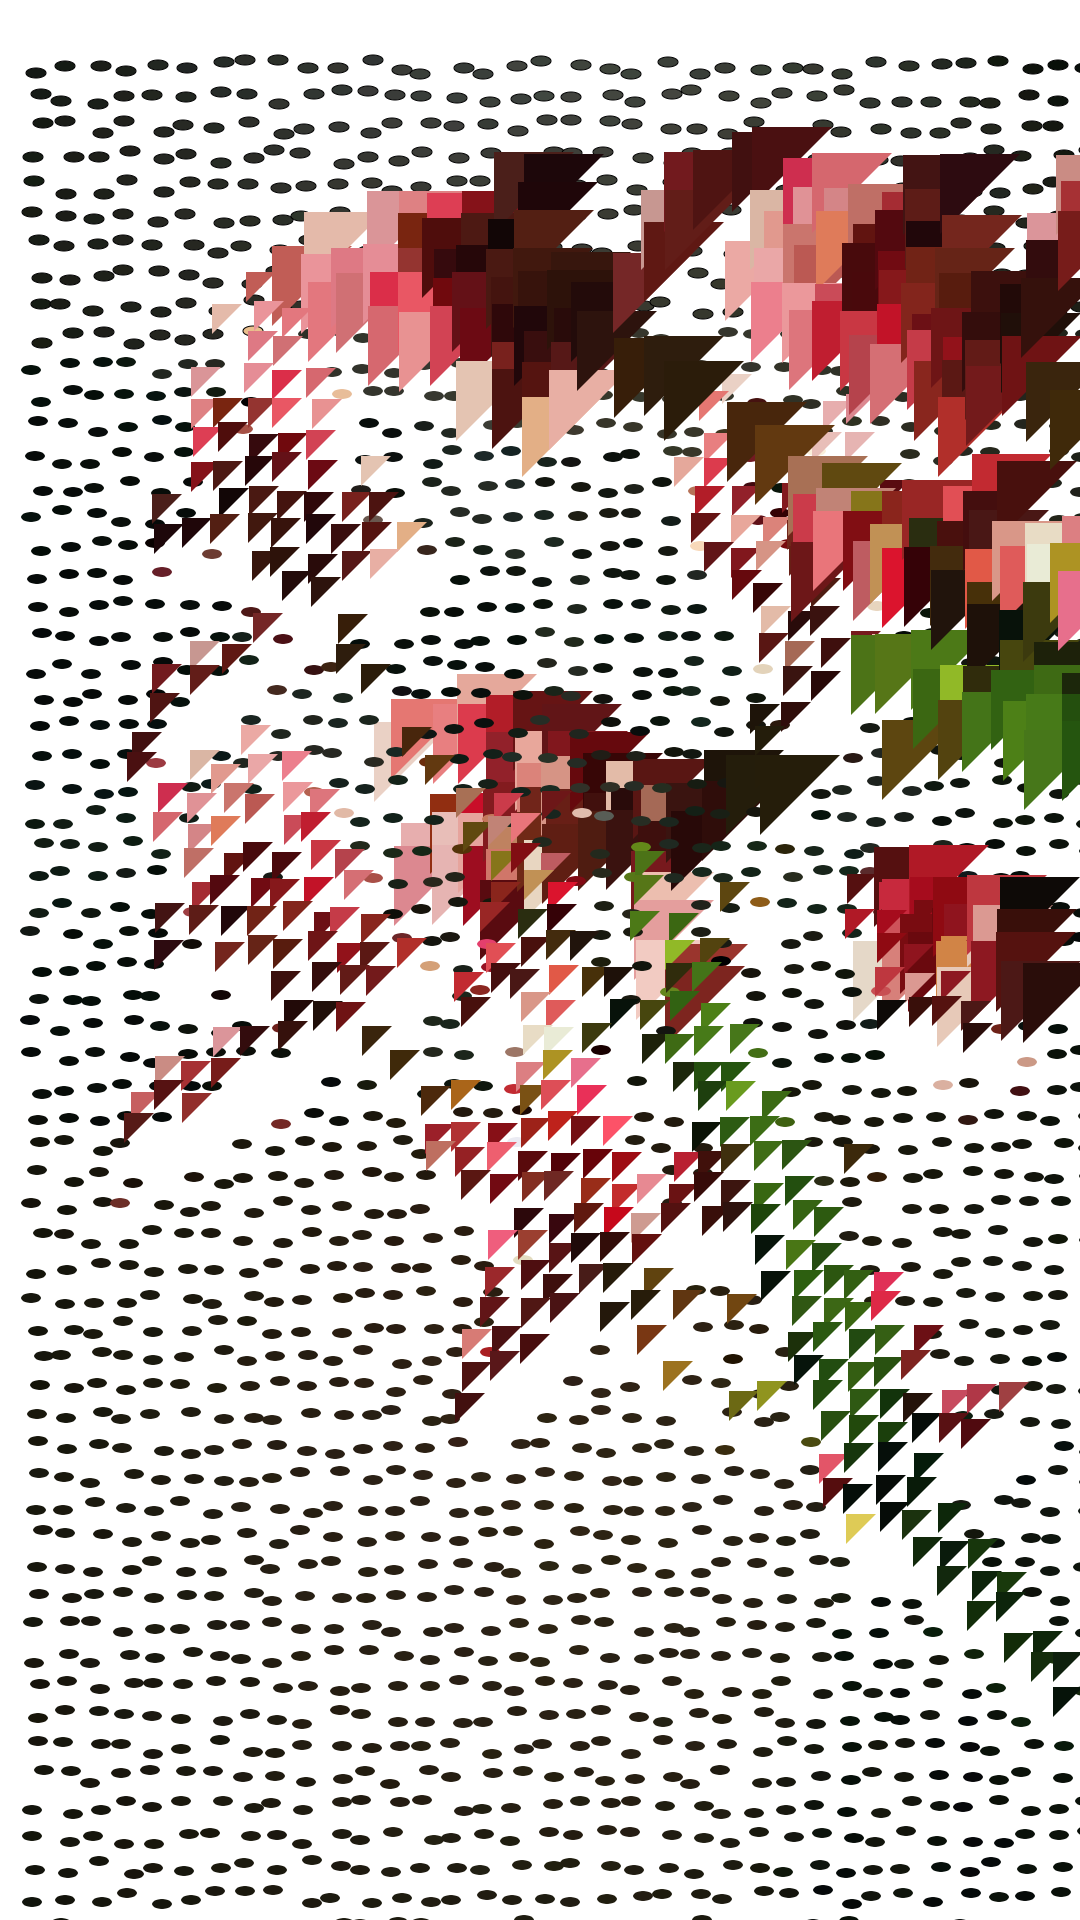
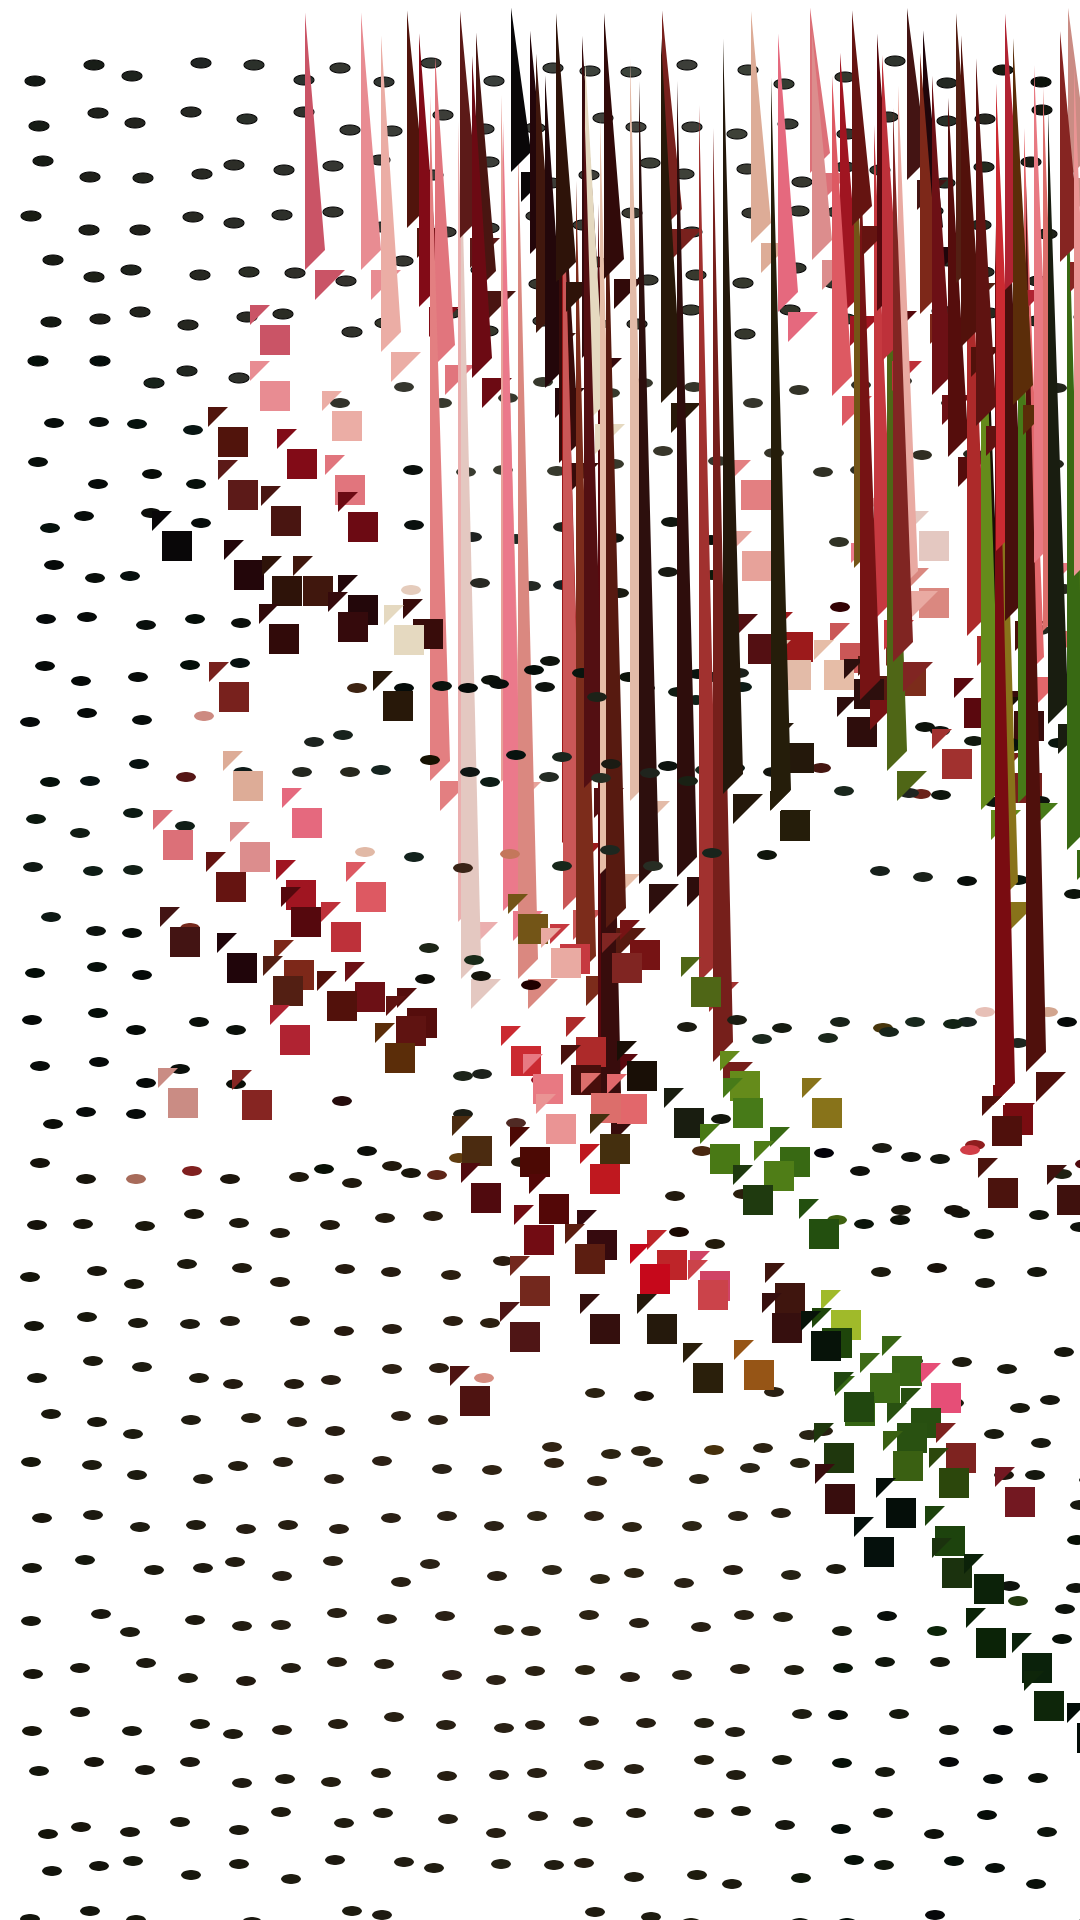
Long triangles

diff --git a/sketch.js b/sketch.js
@@ -2,12 +2,12 @@ let sourceImg=null;
 let maskImg=null;
 let renderCounter=0;
 
- let elementSpacing = 30;
- let circleSize = 40;
- let squareSize = 10;
- let triSize = 30;
- let triSize2 = 60;
- let triSize3 = 80;
+ let elementSpacing = 50;
+ let circleSize = 10;
+ let squareSize = 30;
+ let triSize = 20;
+ let triSize2 = 20;
+ let triSize3 = 30;
 
 function preload() {
   sourceImg = loadImage("input_2.jpg");
@@ -42,6 +42,8 @@ function draw () {
     y = y + dy;
     //z = z + dy;
 
+    let a = 100;
+
     let pointSize = 30;
     //let halfSize2 = 40;
     fill(pix);
@@ -57,15 +59,22 @@ function draw () {
       //ellipse(x+30, y+60, circleSize, circleSize+40);
       //triangle(x+30, y+60, z+10, circleSize, circleSize+40, circleSize);
       triangle(x, y, x+triSize, y, x, y+triSize);
-      triangle(y, x+triSize2, y, x, y+triSize2, x);
+      triangle(y, x+triSize2, y, x/triSize, y+triSize2, x);
+      //rotate(a);
+      translate(10, 20);
+      //rotate(60);
       triangle(y, x+triSize3, y, x, y+triSize3, x);
+      //a = a + 0.1
       rect(x, y, squareSize, squareSize);
     }
     else {
       colorMode(RGB);
       // colorMode(HSL);
       //rect(x-halfSize, y-halfSize, pointSize, pointSize); 
-      ellipse(x+30, y+60, squareSize+10, squareSize);   
+      //rotate(60);
+      //ellipseMode(CENTER);
+      ellipse(x+30, y+60, circleSize+10, circleSize);
+      //a = a + 1;   
     }
   }
   renderCounter = renderCounter + 1;

diff --git a/README.md b/README.md
@@ -2,4 +2,4 @@
 
 The images above are photos of Wellington CBD algorithmically processed with a lightly modified version of the [p5.js Pointillism example](https://p5js.org/examples/image-pointillism.html). The masks for each photo highlight various objects. Replace this text with your own which explains the source of your photos, masking, and applied algorithm.
 
-I played around with some of the code and i manged to get the spacing to work after a while because I was missing a line of code. I added some triangles and it turned out pretty interesting after I got it to work. I think that i will play with it more and see what I come up with. For now this is an experiment. 
+With the code I wasn't sure what to do so I played around with the triangles and the rotate. I wanted to see how it would look if hte background ellipses rotated around and around but i cou;dn't get it to work so I skipped it for now. Changing the position of some of the triangles i ended up with this and I think it looks pretty interesting. I think it if I made them various thickens and changed the opacity of some of the triangles it would be better. 
